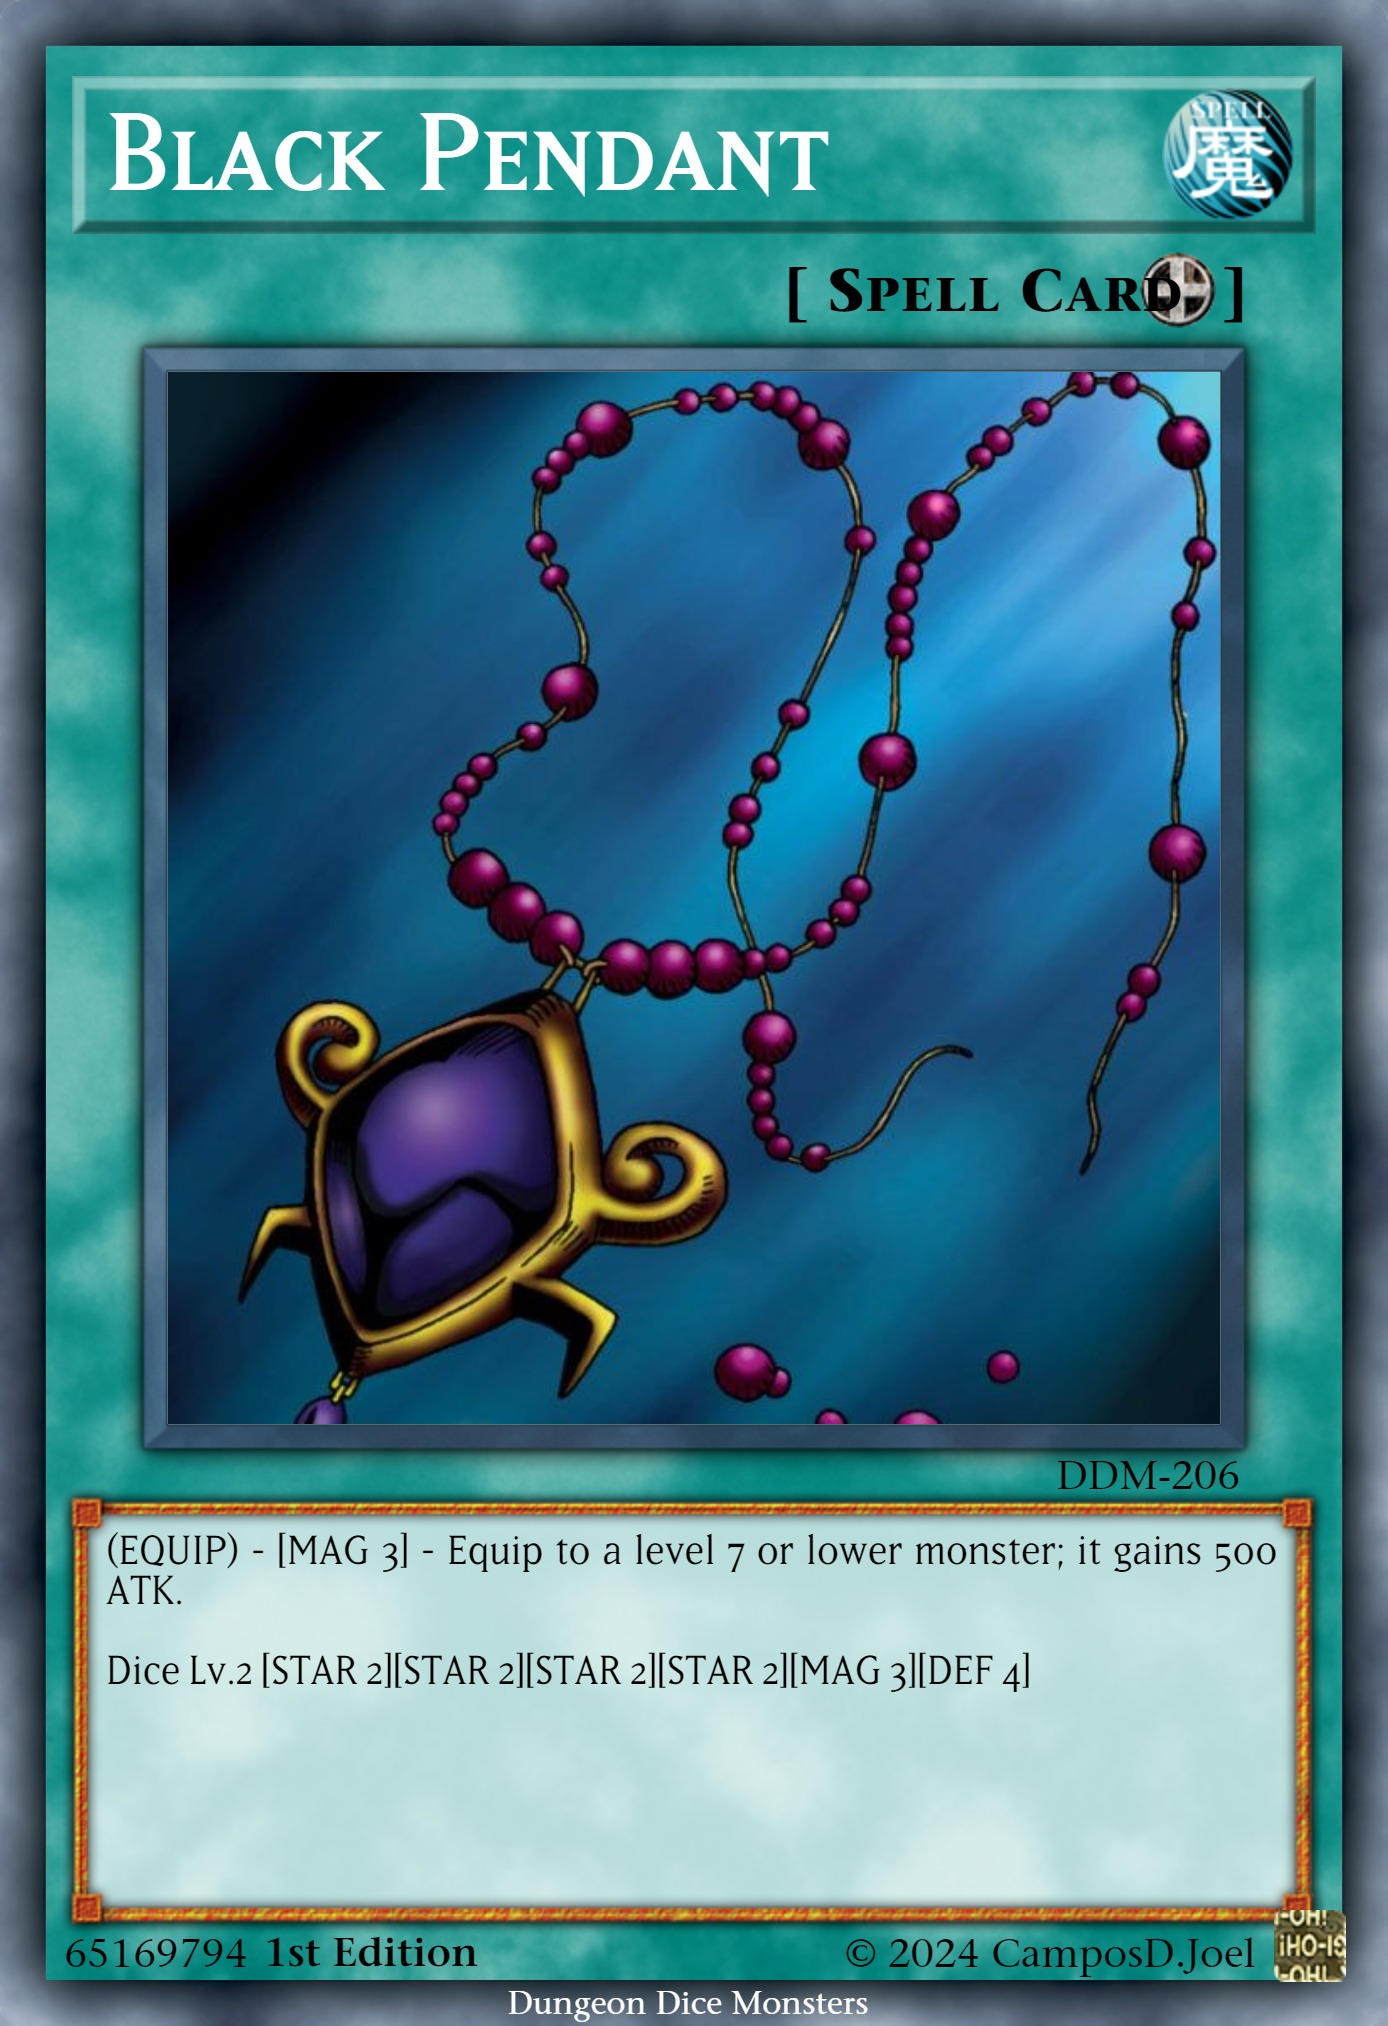
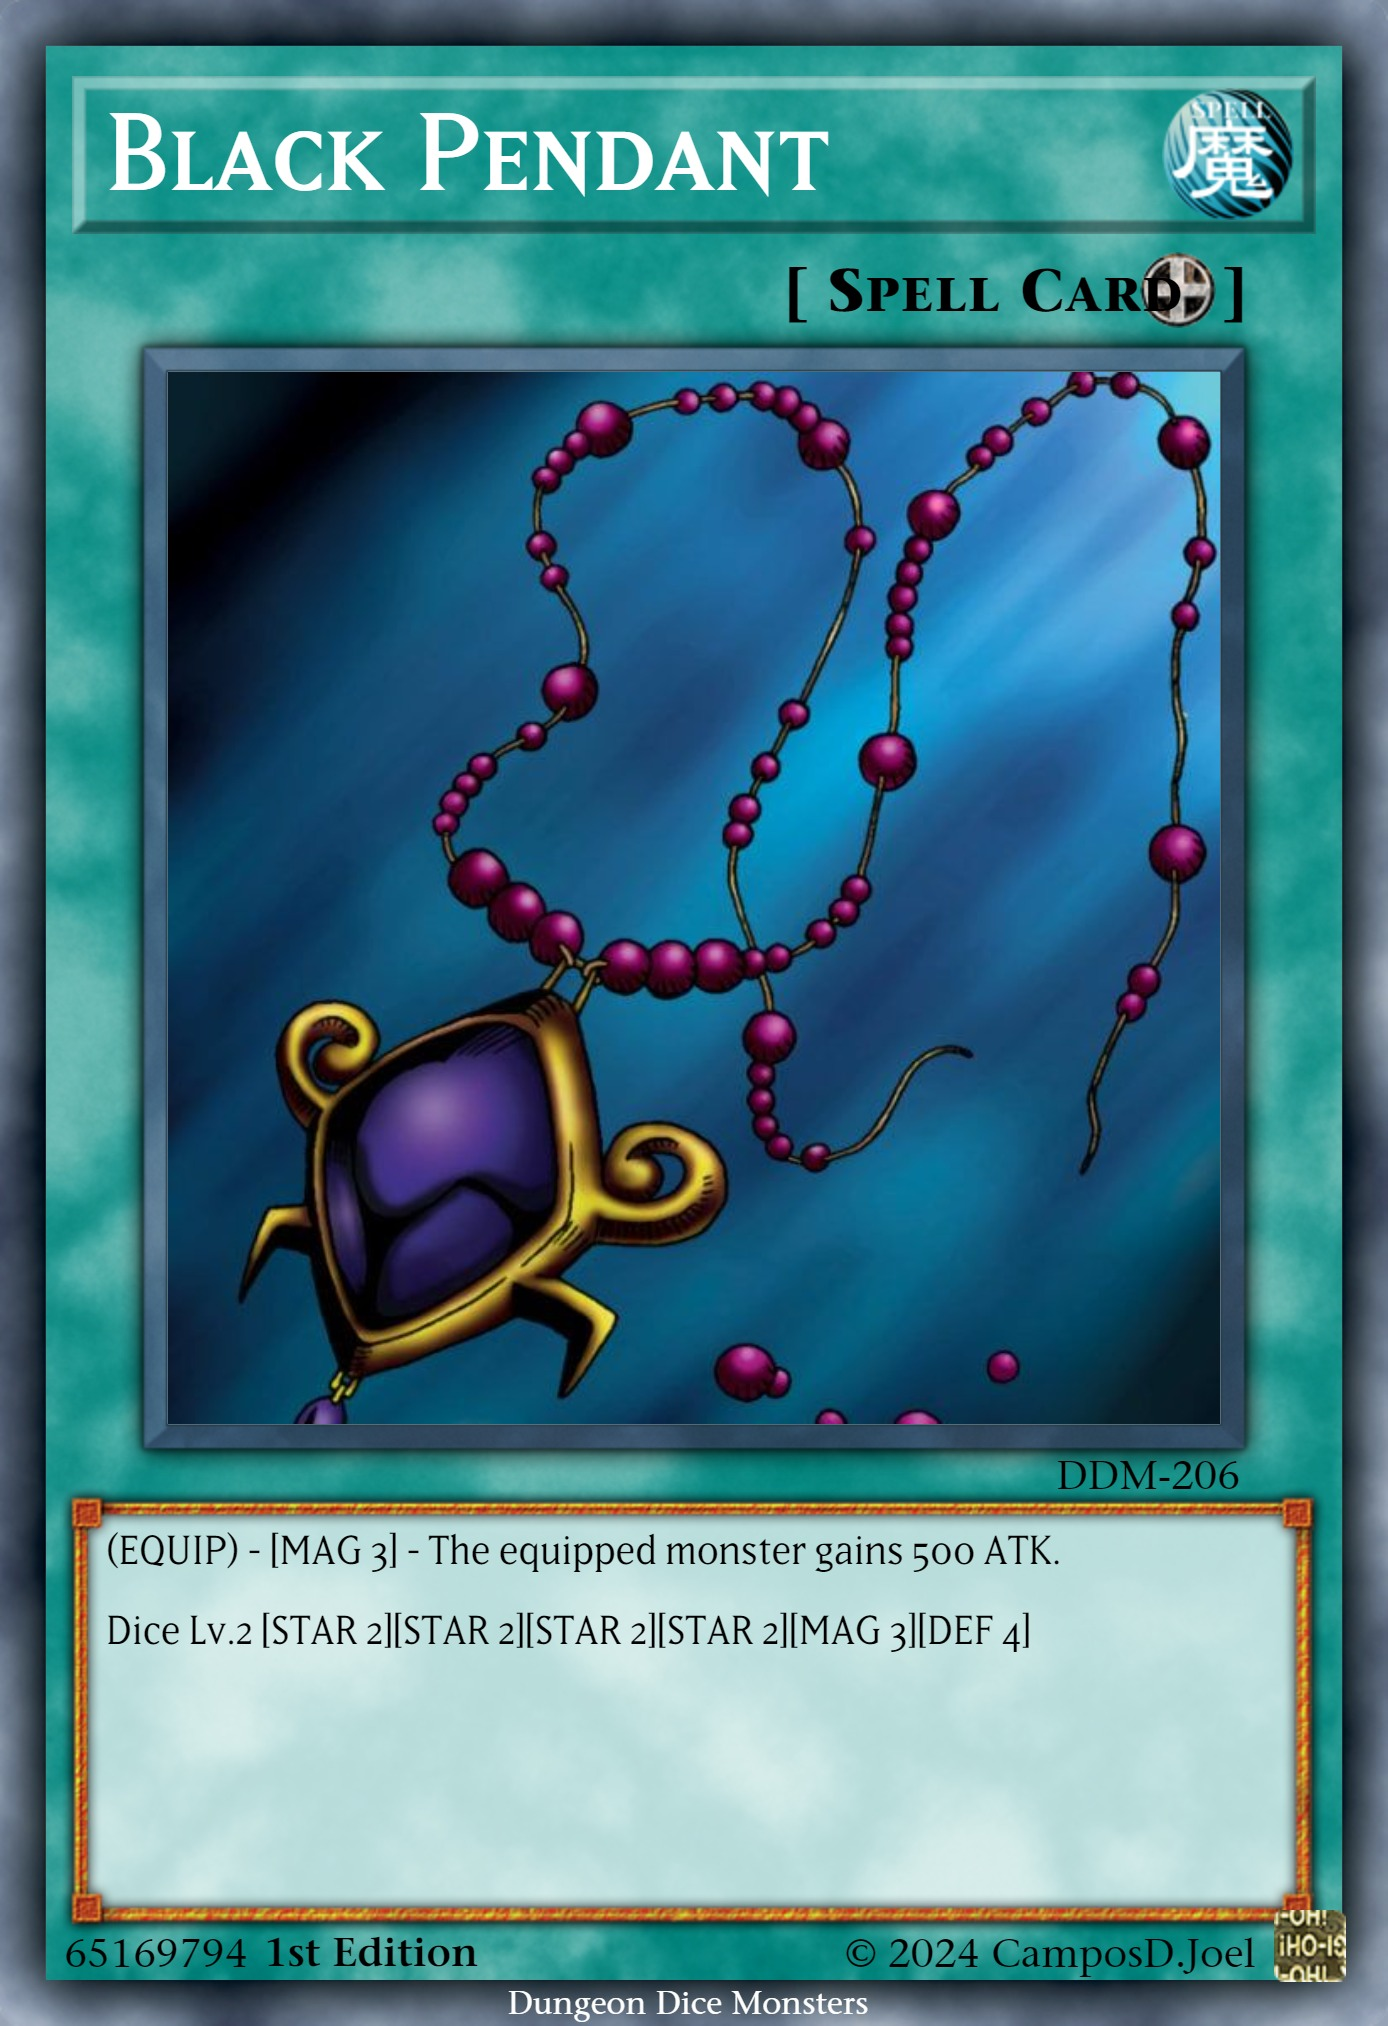
All equips revised for balancing + card images updated

Changed region(s): [[0.062, 0.7463, 0.8984, 0.8396]]

diff --git a/DungeonDiceMonsters/BoardPvP/BoardPvP_BaseEvents.cs b/DungeonDiceMonsters/BoardPvP/BoardPvP_BaseEvents.cs
@@ -1144,7 +1144,7 @@ namespace DungeonDiceMonsters
                         case Effect.EffectID.UltimateInsectLV1_Ignition: return UltimateInsectLv1();
                         case Effect.EffectID.UltimateInsectLV3_Ignition: return UltimateInsectLv3();
                         case Effect.EffectID.UltimateInsectLV5_Ignition: return UltimateInsectLv5();
-                        case Effect.EffectID.BlackPendant_Equip: return AnyOneMonsterThatCanBeTargetOfLevelLimit(7);
+                        case Effect.EffectID.BlackPendant_Equip: return AnyOneMonsterThatCanBeTarget();
                         case Effect.EffectID.LegendarySword_Equip: return AnyOneMonsterThatCanBeTargetOfType(Type.Warrior);
                         case Effect.EffectID.BeastFangs_Equip: return AnyOneMonsterThatCanBeTargetOfType(Type.Beast);
                         case Effect.EffectID.VioletCrystal_Equip: return AnyOneMonsterThatCanBeTargetOfType(Type.Zombie);
@@ -1418,6 +1418,32 @@ namespace DungeonDiceMonsters
                         else
                         {
                             return "Monster was not transformed into. Effect cant activate.";
+                        }
+                    }
+                    string AnyOneMonsterThatCanBeTarget()
+                    {
+                        //REQUIREMENT: Any one monster of either player that can be target (for opponent side)
+
+                        bool monsterFound = false;
+                        foreach (Card thisBoardCard in _CardsOnBoard)
+                        {
+                            if (!thisBoardCard.IsDiscardted && thisBoardCard.IsAMonster)
+                            {
+                                if ((thisBoardCard.Controller == OPPONENTPLAYER && thisBoardCard.CanBeTarget) || thisBoardCard.Controller == TURNPLAYER)
+                                {
+                                    monsterFound = true;
+                                    break;
+                                }
+                            }
+                        }
+
+                        if (monsterFound)
+                        {
+                            return "Requirements Met";
+                        }
+                        else
+                        {
+                            return "No valid targets.";
                         }
                     }
                     string AnyOneMonsterThatCanBeTargetOfLevelLimit(int levelLimit)

diff --git a/DungeonDiceMonsters/BoardPvP/BoardPvP_Effects.cs b/DungeonDiceMonsters/BoardPvP/BoardPvP_Effects.cs
@@ -4452,8 +4452,8 @@ namespace DungeonDiceMonsters
             //Step 2: Resolve the effect
             //Restore the Atk/Def boost to the previously equiped card
             Card EquipedToCard = thisEffect.OriginCard.EquipToCard;
-            EquipedToCard.AdjustAttackBonus(300);
-            EquipedToCard.AdjustDefenseBonus(300);
+            EquipedToCard.AdjustAttackBonus(500);
+            EquipedToCard.AdjustDefenseBonus(500);
             thisEffect.AddAffectedByCard(EquipedToCard);
 
             //Step 3: Add this effect to the Active Effect list
@@ -4462,8 +4462,8 @@ namespace DungeonDiceMonsters
         private void Lv2MTypeEquip_PostTargetEffect(Tile TargetTile)
         {
             //Resolve the effect: target gains 500 ATK
-            TargetTile.CardInPlace.AdjustAttackBonus(300);
-            TargetTile.CardInPlace.AdjustDefenseBonus(300);
+            TargetTile.CardInPlace.AdjustAttackBonus(500);
+            TargetTile.CardInPlace.AdjustDefenseBonus(500);
             //Set the multual equip relationship between the w cards
             TargetTile.CardInPlace.AddEquipCard(_CardEffectToBeActivated.OriginCard);
             _CardEffectToBeActivated.OriginCard.SetEquipedToCard(TargetTile.CardInPlace);
@@ -4482,8 +4482,8 @@ namespace DungeonDiceMonsters
         private void Lv2MTypeEquip_RemoveEffect(Effect thisEffect)
         {
             //Revert the ATK boost provided by this card
-            thisEffect.AffectedByList[0].AdjustAttackBonus(-300);
-            thisEffect.AffectedByList[0].AdjustDefenseBonus(-300);
+            thisEffect.AffectedByList[0].AdjustAttackBonus(-500);
+            thisEffect.AffectedByList[0].AdjustDefenseBonus(-500);
             thisEffect.AffectedByList.RemoveAt(0);
 
             //Now remove the effect from the active list
